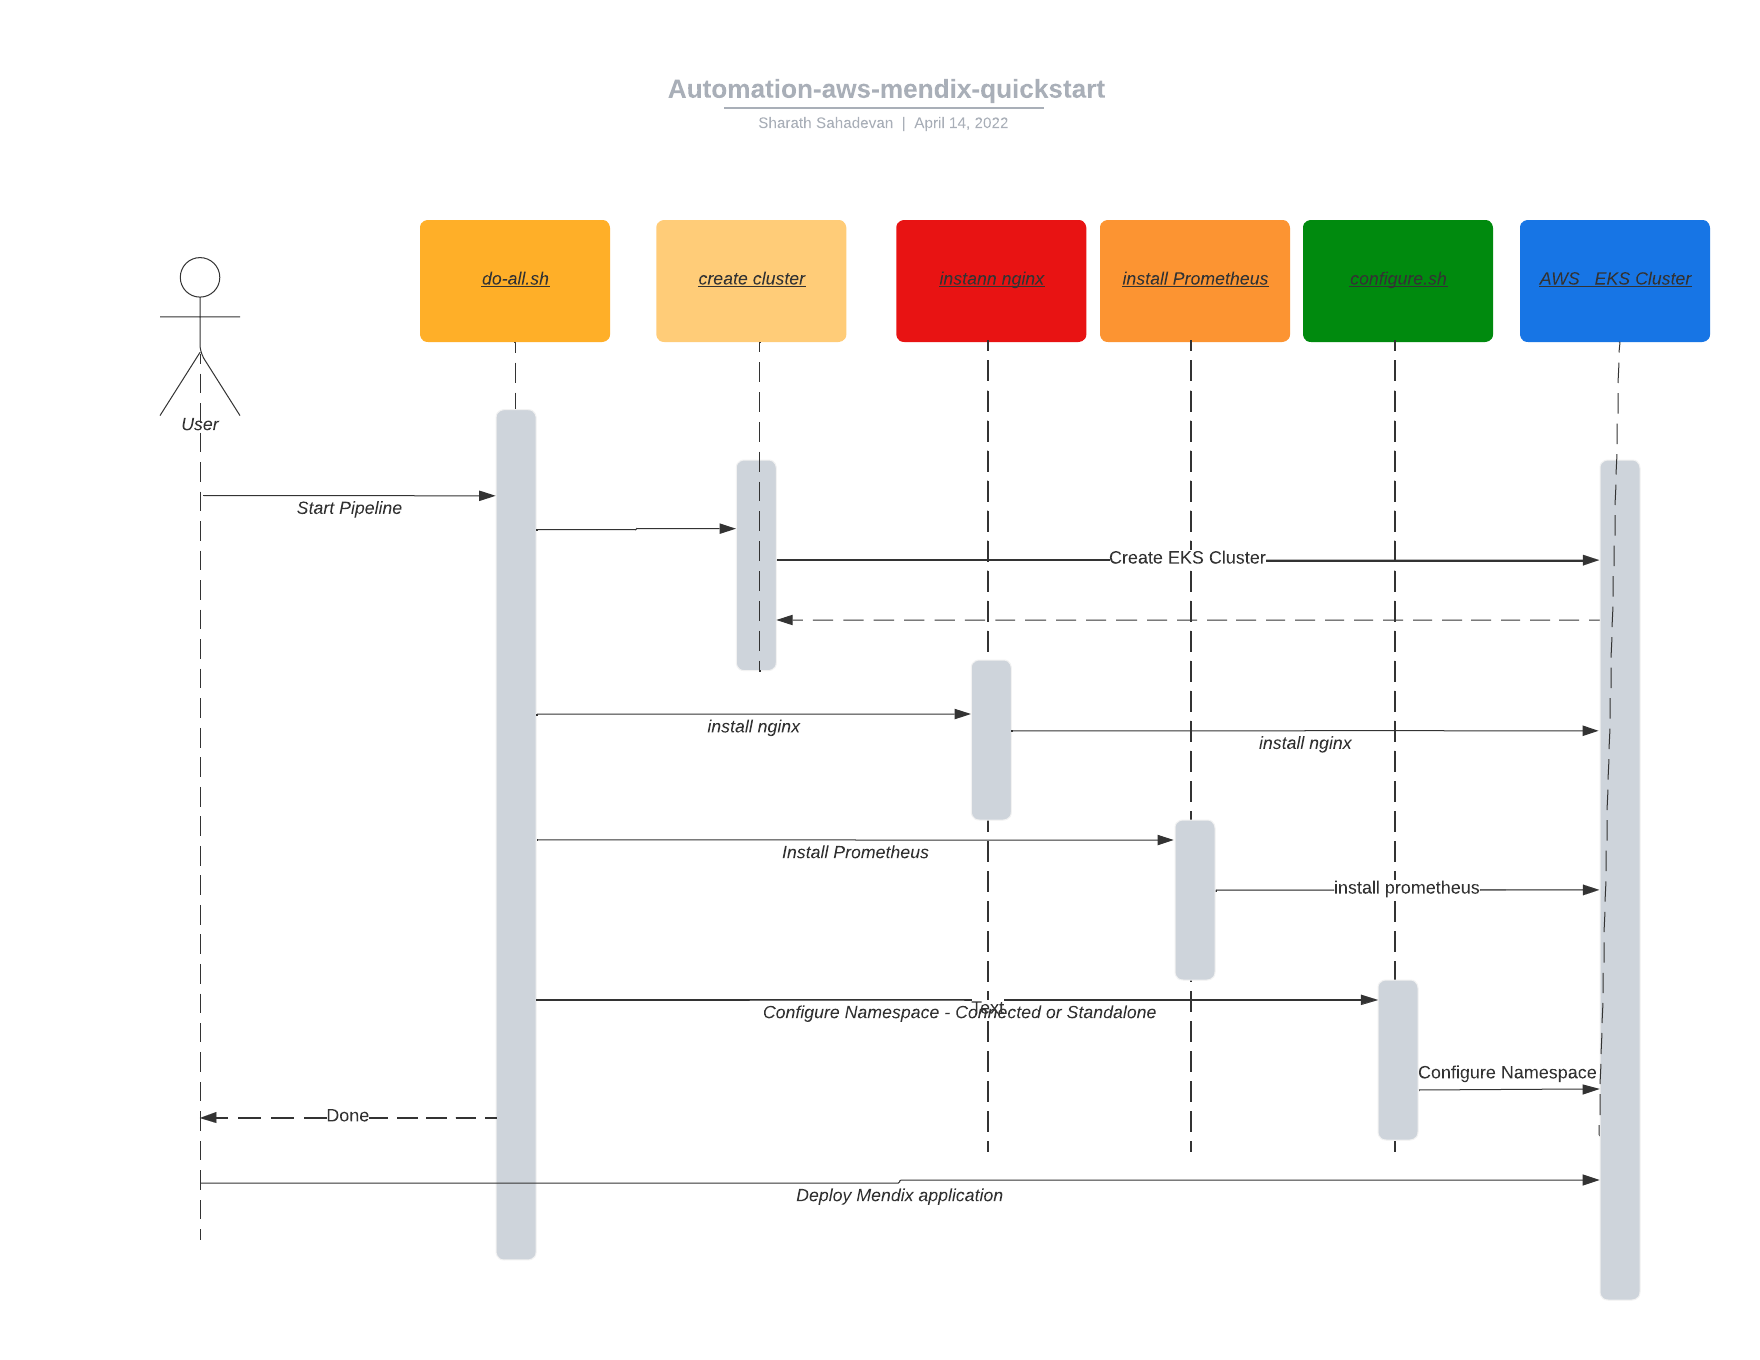
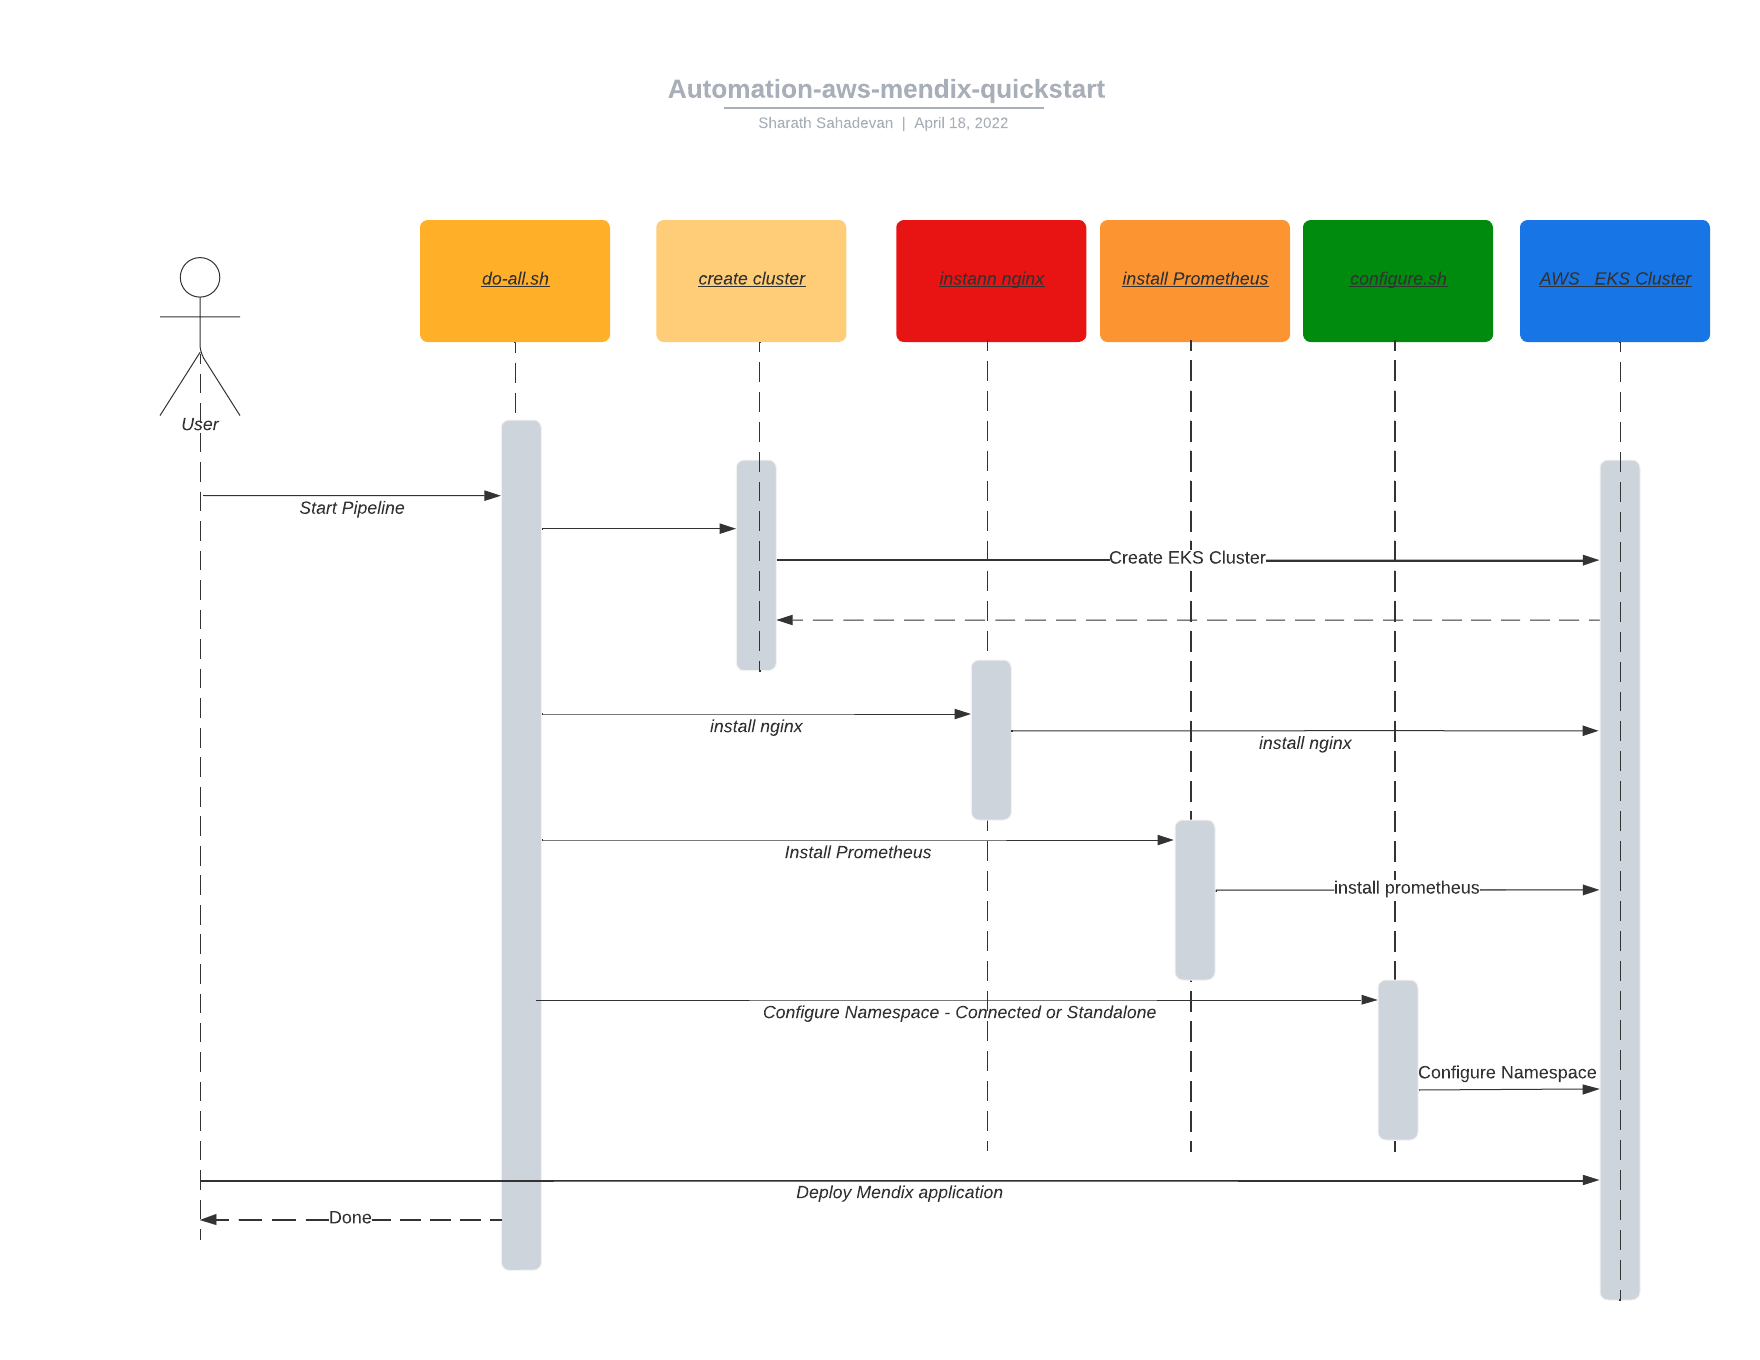
Updated sequence and readme
do-all.sh now deploys the application also.

diff --git a/README.md b/README.md
@@ -4,6 +4,7 @@
     Scripted install of EKS Cluster in AWS.
     Install nginx ingress controllers
     Configure Namespace for mendix
+    Deploys a mendix application
 
 ## Sequence Diagram
 
@@ -40,21 +41,10 @@
 
 Default is connected mode
 
-    do-all.sh
+    do-all.sh connected
 
     do-all.sh standalone
 
-## Configure demo.yaml with lb external ip
-    update demo.yaml with your external ip address
-    
-    appURL: demo.<TODO:lb-external-ip>.nip.io
-
-
-## Install Mendix application
-
-Install the Portfolio manager application in mode chosen above
-
-    kubectl apply -f demo.yaml
 
 ## Screenshots
 
